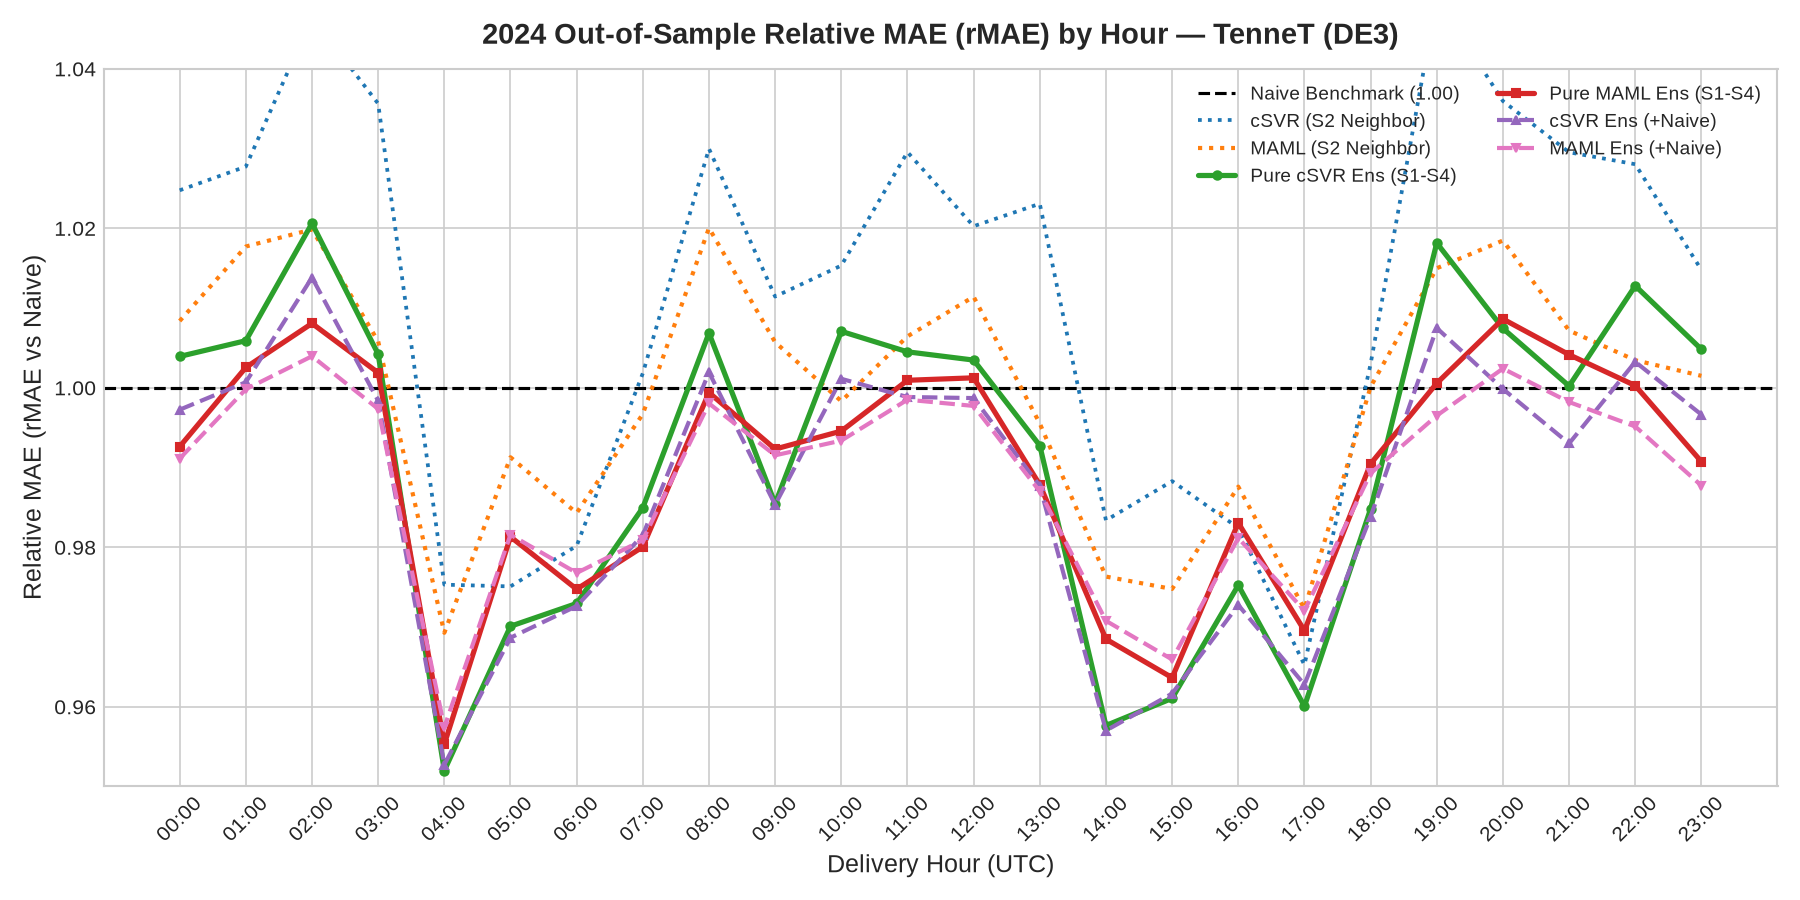
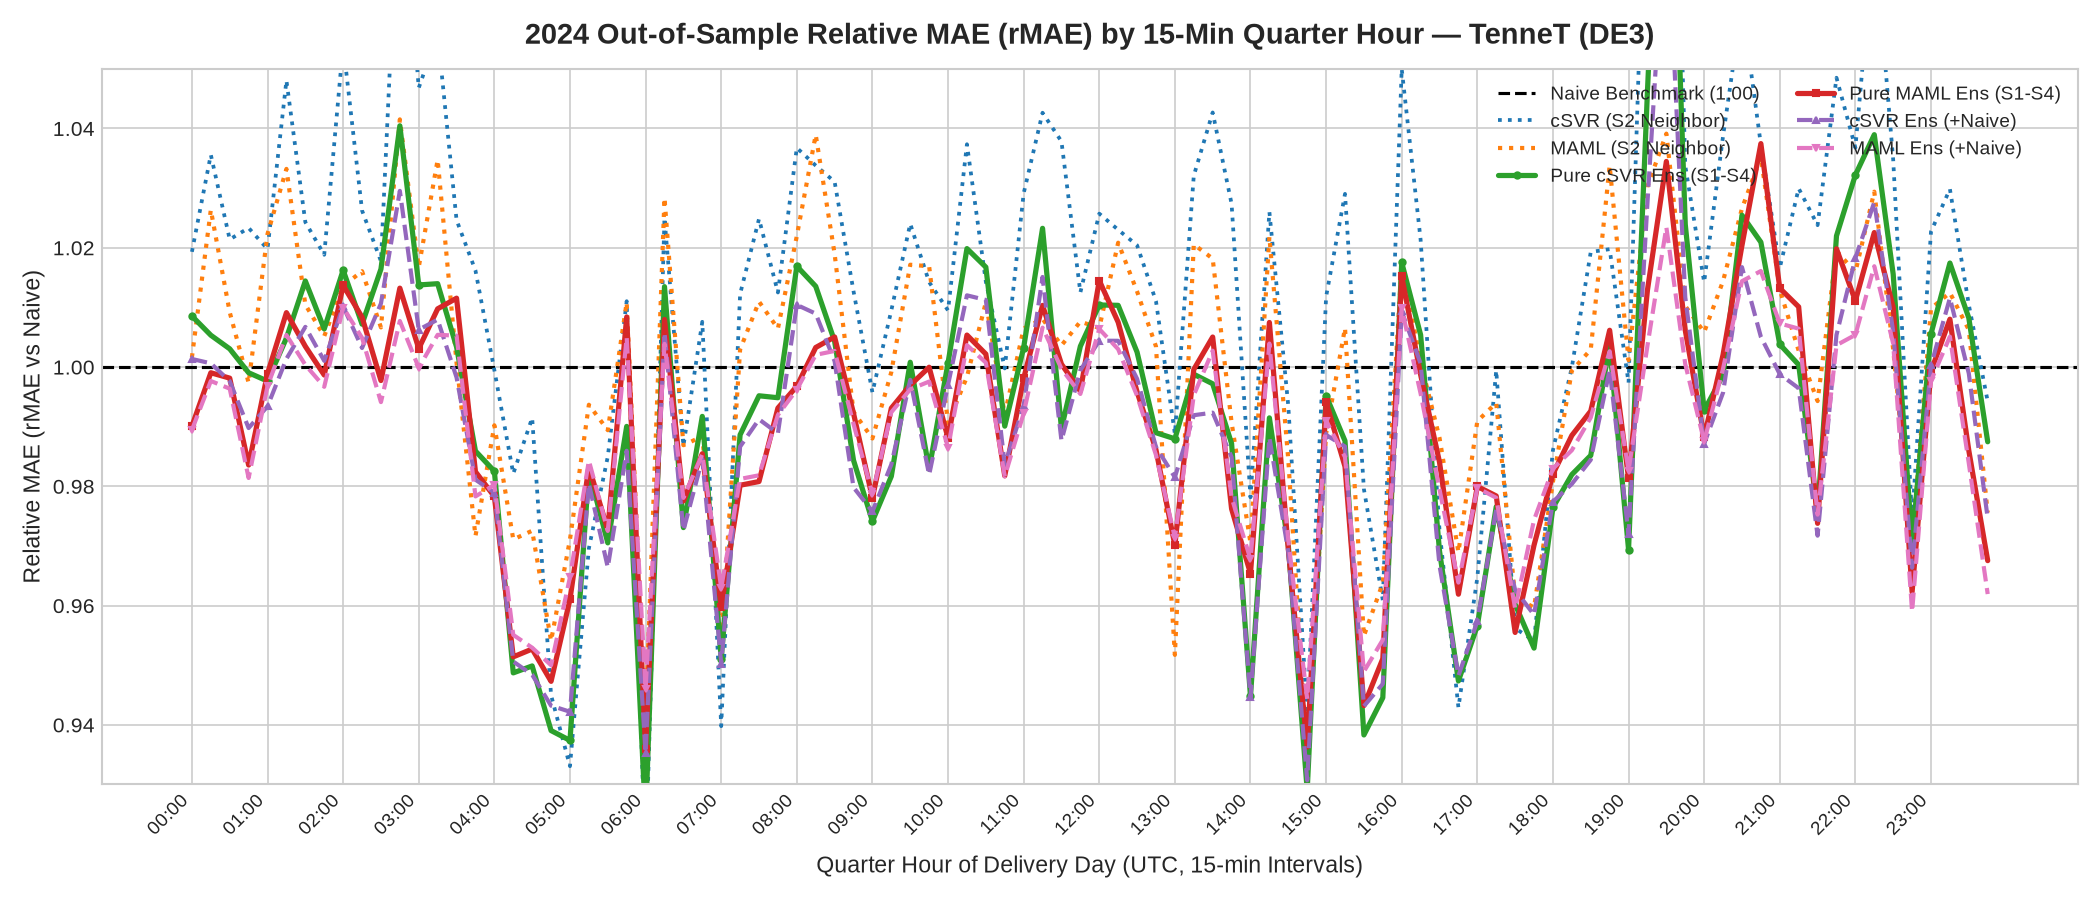
Update Evaluation heatmaps to 15-minute QH raster and blue highlight for >3.5% outperformance

Changed region(s): [[0.0, 0.0, 0.9956, 0.9956], [0.0311, 0.1244, 0.0622, 0.1556], [0.0311, 0.0622, 0.0622, 0.0933]]

diff --git a/Evaluation/run_full4sets_evaluation.py b/Evaluation/run_full4sets_evaluation.py
@@ -71,18 +71,48 @@ def generate_zone_plots(zone: str):
         ("MAML Ens (+Naive)", data["pred_maml_ens_wn_2d"]),
     ]
 
-    # Compute hourly rMAE
-    hourly_rmae = {}
-    mae_naive_hourly = np.nanmean(np.abs(y_true_2d - bm_2d).reshape(-1, 24, 4), axis=(0, 2))
-    hours = np.arange(24)
+import matplotlib.ticker as ticker
+
+def generate_zone_plots(zone: str):
+    npz_path = os.path.join(RESULTS_DIR, f"results_{zone}_full4sets_2024.npz")
+    if not os.path.exists(npz_path):
+        return
+    data = np.load(npz_path)
+    y_true_2d = data["y_true_2d"]
+    bm_2d = data["benchmark_2d"]
+    qh_arr = data["qh_idx"]
+    y_true = data["y_true"]
+    bm = data["benchmark"]
+
+    # Strictly MAML-NN vs cSVR (Rule 5.2: No cross-architecture hybrids)
+    models_to_eval = [
+        ("Naive Benchmark", bm_2d),
+        ("cSVR (S1 Macro)", data["pred_csvr_s1_2d"] if "pred_csvr_s1_2d" in data else data["pred_csvr_2d"]),
+        ("MAML (S1 Macro)", data["pred_maml_s1_2d"]),
+        ("cSVR (S2 Neighbor)", data["pred_csvr_s2_2d"]),
+        ("MAML (S2 Neighbor)", data["pred_maml_s2_2d"]),
+        ("cSVR (S3 Fundamentals)", data["pred_csvr_s3_2d"]),
+        ("MAML (S3 Fundamentals)", data["pred_maml_s3_2d"]),
+        ("cSVR (S4 Balances)", data["pred_csvr_s4_2d"]),
+        ("MAML (S4 Balances)", data["pred_maml_s4_2d"]),
+        ("Pure cSVR Ens (S1-S4)", data["pred_csvr_ens_pure_2d"]),
+        ("Pure MAML Ens (S1-S4)", data["pred_maml_ens_pure_2d"]),
+        ("cSVR Ens (+Naive)", data["pred_csvr_ens_wn_2d"]),
+        ("MAML Ens (+Naive)", data["pred_maml_ens_wn_2d"]),
+    ]
+
+    # Compute 15-minute Quarter-Hour rMAE (96 intervals per day)
+    qh_rmae = {}
+    mae_naive_qh = np.nanmean(np.abs(y_true_2d - bm_2d), axis=0) # shape (96,)
+    qhs = np.arange(96)
 
     for name, pred_2d in models_to_eval:
-        mae_m = np.nanmean(np.abs(y_true_2d - pred_2d).reshape(-1, 24, 4), axis=(0, 2))
-        hourly_rmae[name] = mae_m / mae_naive_hourly
+        mae_m = np.nanmean(np.abs(y_true_2d - pred_2d), axis=0)
+        qh_rmae[name] = mae_m / mae_naive_qh
 
-    # 1. Plot: Hourly rMAE Curve
+    # 1. Plot: 96-QH Intraday Curve
     plt.style.use("seaborn-v0_8-whitegrid" if "seaborn-v0_8-whitegrid" in plt.style.available else "default")
-    fig, ax = plt.subplots(figsize=(12, 6), dpi=150)
+    fig, ax = plt.subplots(figsize=(14, 6), dpi=150)
     ax.axhline(1.0, color="black", linestyle="--", linewidth=1.5, label="Naive Benchmark (1.00)")
 
     # Color palette
@@ -96,46 +126,81 @@ def generate_zone_plots(zone: str):
     }
 
     for name, (col, ls, lw, marker) in colors.items():
-        if name in hourly_rmae:
-            ax.plot(hours, hourly_rmae[name], label=name, color=col, linestyle=ls, linewidth=lw, marker=marker, markersize=4)
+        if name in qh_rmae:
+            ax.plot(qhs, qh_rmae[name], label=name, color=col, linestyle=ls, linewidth=lw, marker=marker, markersize=3, markevery=4)
 
-    ax.set_title(f"2024 Out-of-Sample Relative MAE (rMAE) by Hour — {ZONE_NAMES[zone]}", fontsize=14, fontweight="bold", pad=12)
-    ax.set_xlabel("Delivery Hour (UTC)", fontsize=12)
-    ax.set_ylabel("Relative MAE (rMAE vs Naive)", fontsize=12)
-    ax.set_xticks(hours)
-    ax.set_xticklabels([f"{h:02d}:00" for h in hours], rotation=45)
-    ax.set_ylim(0.95, 1.04)
+    ax.set_title(f"2024 Out-of-Sample Relative MAE (rMAE) by 15-Min Quarter Hour — {ZONE_NAMES[zone]}", fontsize=14, fontweight="bold", pad=12)
+    ax.set_xlabel("Quarter Hour of Delivery Day (UTC, 15-min Intervals)", fontsize=11, labelpad=8)
+    ax.set_ylabel("Relative MAE (rMAE vs Naive)", fontsize=11)
+    ax.set_xticks(range(0, 96, 4))
+    ax.set_xticklabels([f"{h:02d}:00" for h in range(24)], rotation=45, ha="right", fontsize=9)
+    ax.xaxis.set_minor_locator(ticker.MultipleLocator(1))
+    ax.set_ylim(0.93, 1.05)
     ax.legend(loc="upper right", framealpha=0.9, fontsize=9, ncol=2)
     plt.tight_layout()
     plt.savefig(os.path.join(OUTPUT_DIR, f"full4sets_by_hour_{zone}.png"))
     plt.close()
 
-    # 2. Plot: Heatmap across hours
-    heatmap_matrix = np.array([hourly_rmae[m[0]] for m in models_to_eval[1:]])
-    fig, ax = plt.subplots(figsize=(14, 8), dpi=150)
-    cmap = plt.cm.RdYlGn_r
-    norm = mcolors.TwoSlopeNorm(vmin=0.96, vcenter=1.00, vmax=1.04)
-    im = ax.imshow(heatmap_matrix, aspect="auto", cmap=cmap, norm=norm)
+    # 2. Plot: 96-QH Heatmap
+    heatmap_matrix = np.array([qh_rmae[m[0]] for m in models_to_eval[1:]])
+    
+    # Custom Colormap:
+    # rMAE <= 0.965 (> 3.5% Outperformance): Solid Royal Blue
+    # 0.965 < rMAE <= 1.000: Dark green to soft yellow
+    # rMAE > 1.000: Soft yellow to dark red
+    N = 512
+    vals = np.linspace(0.92, 1.06, N)
+    colors_list = []
+    for v in vals:
+        if v <= 0.965:
+            # Solid Royal Blue for > 3.5% outperformance
+            colors_list.append((0.10, 0.45, 0.91, 1.0))
+        elif v <= 1.000:
+            # Dark green to soft yellow
+            t = (v - 0.965) / (1.000 - 0.965)
+            r = 0.11 + t * (0.98 - 0.11)
+            g = 0.55 + t * (0.98 - 0.55)
+            b = 0.18 + t * (0.82 - 0.18)
+            colors_list.append((r, g, b, 1.0))
+        else:
+            # Soft yellow to dark red
+            t = min(1.0, (v - 1.000) / (1.060 - 1.000))
+            r = 0.98 - t * (0.98 - 0.78)
+            g = 0.98 - t * (0.98 - 0.12)
+            b = 0.82 - t * (0.82 - 0.12)
+            colors_list.append((r, g, b, 1.0))
 
-    ax.set_xticks(np.arange(24))
-    ax.set_xticklabels([f"{h:02d}:00" for h in hours], rotation=45, fontsize=9)
-    ax.set_yticks(np.arange(len(models_to_eval) - 1))
-    ax.set_yticklabels([m[0] for m in models_to_eval[1:]], fontsize=10)
-    ax.set_title(f"rMAE Heatmap Across Delivery Hours (UTC) — {ZONE_NAMES[zone]} (2024 Full Year)", fontsize=13, fontweight="bold", pad=12)
+    cmap = mcolors.ListedColormap(colors_list)
+    norm = mcolors.Normalize(vmin=0.92, vmax=1.06)
+
+    fig, ax = plt.subplots(figsize=(16, 7), dpi=150)
+    ax.grid(False)
+    im = ax.imshow(heatmap_matrix, aspect="auto", cmap=cmap, norm=norm, interpolation="nearest")
+
+    ax.set_xticks(range(0, 96, 4))
+    ax.set_xticklabels([f"{h:02d}:00" for h in range(24)], rotation=45, ha="right", fontsize=9)
+    ax.xaxis.set_minor_locator(ticker.MultipleLocator(1))
+    ax.set_yticks(range(len(models_to_eval) - 1))
+    ax.set_yticklabels([m[0] for m in models_to_eval[1:]], fontsize=10, fontweight="bold")
+    ax.set_xlabel("Quarter Hour of Delivery Day (UTC, 15-min Intervals)", fontsize=11, labelpad=8)
+    ax.set_title(f"rMAE Heatmap Across 15-Minute Quarter Hours — {ZONE_NAMES[zone]} (2024 Full Year)\n(Blue: >3.5% Outperformance | Green: 0% to 3.5% Outperformance | Red: Underperformance)", fontsize=12, fontweight="bold", pad=12)
 
     # Colorbar
-    cbar = plt.colorbar(im, ax=ax, fraction=0.03, pad=0.02)
-    cbar.set_label("rMAE (< 1.00 beats Naive)", fontsize=11)
+    cbar = plt.colorbar(im, ax=ax, fraction=0.025, pad=0.02)
+    cbar.set_ticks([0.92, 0.94, 0.965, 0.98, 1.00, 1.02, 1.04, 1.06])
+    cbar.set_ticklabels(["< 0.92", "0.94", "0.965 (+3.5%)", "0.98", "1.000 (Naive)", "1.02", "1.04", "> 1.06"])
+    cbar.set_label("rMAE (< 1.00 beats Naive | Blue: > 3.5% Outperformance)", fontsize=10)
+
     plt.tight_layout()
     plt.savefig(os.path.join(OUTPUT_DIR, f"full4sets_heatmap_{zone}.png"))
     plt.close()
 
-    print(f"Generated updated plots for {zone} -> {OUTPUT_DIR}")
+    print(f"Generated 15-min QH plots for {zone} -> {OUTPUT_DIR}")
 
 def main():
     for z in ZONES:
         generate_zone_plots(z)
-    print("All zone plots generated successfully.")
+    print("All zone 15-min plots generated successfully.")
 
 if __name__ == "__main__":
     main()
